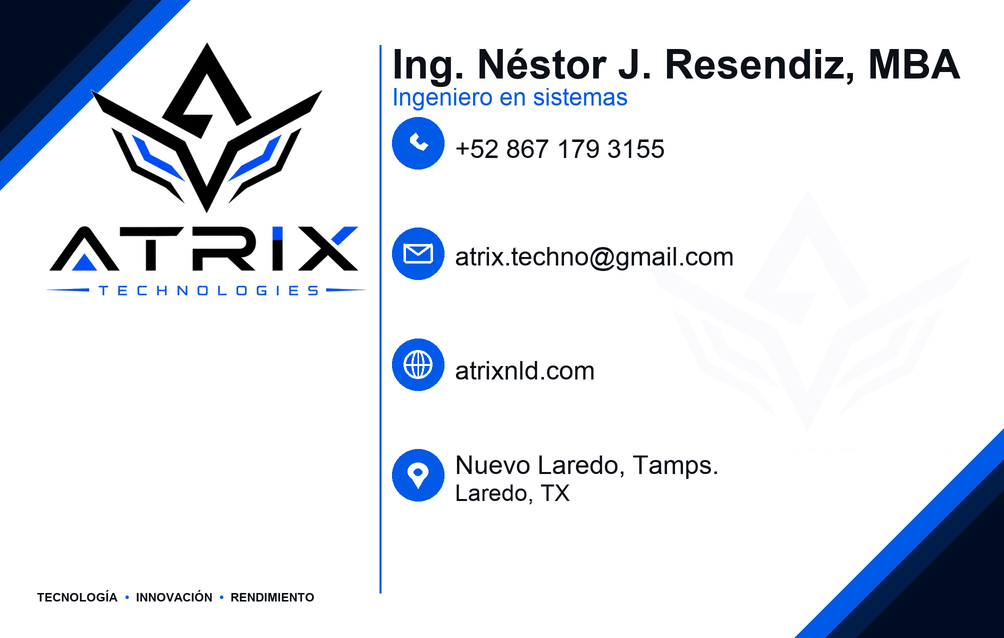
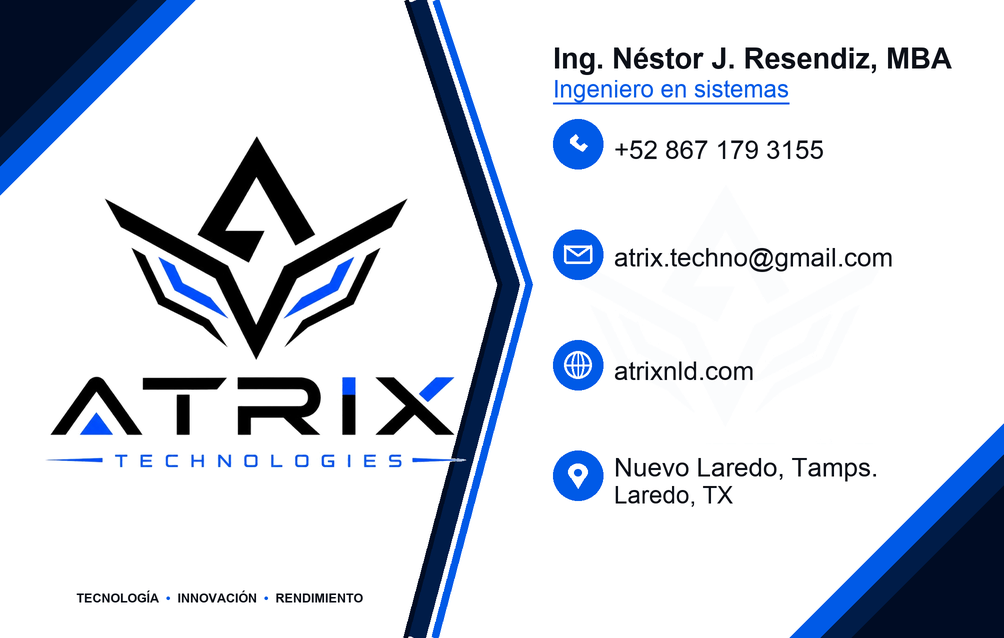
Match PVC cards to reference chevron layout at 600 DPI.
Front now uses the navy/blue right-pointing chevron divider with larger contact type; back keeps the six service columns and footer bar for print-ready 8.5×5.4 cm cards.

diff --git a/scripts/render_business_cards.py b/scripts/render_business_cards.py
@@ -16,8 +16,8 @@ SRC_LOGO = ROOT / "assets" / "source-cards" / "atrix-technologies-logo.png"
 DPI = 600
 W = round(8.5 / 2.54 * DPI)  # 2008
 H = round(5.4 / 2.54 * DPI)  # 1276
-# ~2.8 mm safe margin from PVC trim (slightly tighter so content can grow)
-SAFE = round(2.8 / 25.4 * DPI)  # ~66 px
+# ~2.7 mm safe margin from PVC trim
+SAFE = round(2.7 / 25.4 * DPI)  # ~64 px
 
 BLUE = (0, 90, 231)  # #005AE7
 NAVY = (0, 28, 72)  # #001C48
@@ -60,6 +60,41 @@ def paint_corner(draw: ImageDraw.ImageDraw, corner: str, size: int = 310, band: 
             draw.polygon([(0, H), (extent, H), (0, H - extent)], fill=color)
         elif corner == "tr":
             draw.polygon([(W, 0), (W - extent, 0), (W, extent)], fill=color)
+
+
+def chevron_x_at(y: float) -> float:
+    """Right-pointing chevron centerline from reference (normalized → px)."""
+    # Tip slightly above mid: ~52.7% W at ~44.6% H
+    tip_y = 0.446 * H
+    tip_x = 0.527 * W
+    top_x = 0.434 * W
+    bot_x = 0.433 * W
+    if y <= tip_y:
+        t = y / tip_y if tip_y else 0.0
+        return top_x + (tip_x - top_x) * t
+    t = (y - tip_y) / (H - tip_y) if H != tip_y else 1.0
+    return tip_x + (bot_x - tip_x) * t
+
+
+def paint_front_chevron(draw: ImageDraw.ImageDraw) -> None:
+    """Navy outer + blue inner right-pointing chevron divider (reference match)."""
+    # Draw as thick polylines so the tip stays sharp (no polygon self-fill artifacts)
+    navy_w = 44
+    blue_w = 15
+    step = 2
+    ys = list(range(0, H + 1, step))
+    if ys[-1] != H:
+        ys.append(H)
+
+    # Centerline of blue (rightmost edge of divider stack)
+    blue_line = [(int(round(chevron_x_at(y))), y) for y in ys]
+    # Navy sits left of blue with a tiny white gap
+    navy_line = [(int(round(chevron_x_at(y) - blue_w - 4 - navy_w // 2)), y) for y in ys]
+    draw.line(navy_line, fill=NAVY, width=navy_w, joint="curve")
+    # Midnight accent along outer (left) edge of navy
+    midnight_line = [(p[0] - navy_w // 2 + 4, p[1]) for p in navy_line]
+    draw.line(midnight_line, fill=MIDNIGHT, width=10, joint="curve")
+    draw.line(blue_line, fill=BLUE, width=blue_w, joint="curve")
 
 
 def load_stacked_logo(max_w: int, max_h: int) -> Image.Image:
@@ -291,35 +326,44 @@ def wrap_center(
     return yy
 
 
+def left_panel_right_bound(y: int) -> int:
+    """Usable right edge of left branding panel (inside chevron navy)."""
+    return int(chevron_x_at(y) - 78)
+
+
 def render_front() -> Image.Image:
     img = Image.new("RGB", (W, H), WHITE)
     draw = ImageDraw.Draw(img)
 
-    wm = load_mark_watermark(860, opacity=15)
-    img.paste(wm, (W - wm.width - SAFE, (H - wm.height) // 2), wm)
+    # Watermark on right panel first
+    tip_x = int(0.527 * W)
+    wm = load_mark_watermark(880, opacity=13)
+    img.paste(wm, (tip_x + 60, (H - wm.height) // 2 - 10), wm)
 
-    paint_corner(draw, "tl", size=380, band=58)
-    paint_corner(draw, "br", size=420, band=62)
+    paint_corner(draw, "tl", size=390, band=58)
+    paint_corner(draw, "br", size=430, band=62)
+    paint_front_chevron(draw)
 
-    # Motto first so logo can sit above it
+    # Motto along bottom of left panel
     parts = ["TECNOLOGÍA", "INNOVACIÓN", "RENDIMIENTO"]
-    motto_f = font(FONT_BOLD, 24)
+    motto_f = font(FONT_BOLD, 25)
     motto_h = text_size(draw, parts[0], motto_f)[1]
     my = H - SAFE - motto_h - 6
 
-    # Vertical divider — ~38% logo / 62% contact
-    div_x = 760
-    draw.line([(div_x, SAFE + 24), (div_x, H - SAFE - 24)], fill=BLUE, width=4)
-
-    # Left stacked logo — top-aligned, as wide as the left column allows
-    logo_max_w = div_x - SAFE - 24
-    logo_max_h = my - SAFE - 24
+    # Left stacked logo — fill the chevron pocket without colliding with divider
+    pocket_right = left_panel_right_bound(int(0.40 * H))
+    logo_max_w = pocket_right - SAFE - 20
+    logo_max_h = my - SAFE - 36
     logo = load_stacked_logo(logo_max_w, logo_max_h)
-    logo_x = SAFE + (div_x - SAFE - logo.width) // 2
-    logo_y = SAFE + 10
+    logo_x = SAFE + max(0, (pocket_right - SAFE - logo.width) // 2)
+    logo_y = SAFE + max(0, (my - SAFE - 28 - logo.height) // 2)
     img.paste(logo, (logo_x, logo_y), logo)
 
-    mx = SAFE + 8
+    # Motto centered under logo within left pocket
+    motto_w = sum(text_size(draw, p, motto_f)[0] for p in parts)
+    motto_w += 2 * text_size(draw, "  •  ", motto_f)[0]
+    pocket_r_bot = left_panel_right_bound(my)
+    mx = SAFE + max(0, (min(pocket_r_bot, pocket_right) - SAFE - motto_w) // 2)
     x = mx
     for i, part in enumerate(parts):
         draw.text((x, my), part, fill=BLACK, font=motto_f)
@@ -330,19 +374,27 @@ def render_front() -> Image.Image:
             bw, _ = text_size(draw, "  •  ", motto_f)
             x += bw
 
-    # Right contact block — print-readable (~10–13 pt name, ~7–8 pt contact @ 600 DPI)
-    rx = div_x + 24
-    name_f = font(FONT_BOLD, 82)
+    # Right contact block — large print-readable type
+    rx = tip_x + 48
+    name_f = font(FONT_BOLD, 76)
     title_f = font(FONT_REG, 48)
     info_f = font(FONT_REG, 52)
-    info_sm = font(FONT_REG, 46)
+    info_sm = font(FONT_REG, 48)
 
-    name_y = SAFE + 16
-    draw.text((rx, name_y), "Ing. Néstor J. Resendiz, MBA", fill=BLACK, font=name_f)
-    _, name_h = text_size(draw, "Ing. Néstor J. Resendiz, MBA", name_f)
-    title_y = name_y + name_h + 8
-    draw.text((rx, title_y), "Ingeniero en sistemas", fill=BLUE, font=title_f)
-    _, title_h = text_size(draw, "Ingeniero en sistemas", title_f)
+    name = "Ing. Néstor J. Resendiz, MBA"
+    while text_size(draw, name, name_f)[0] > W - SAFE - 12 - rx and name_f.size > 56:
+        name_f = font(FONT_BOLD, name_f.size - 2)
+
+    name_y = SAFE + 20
+    draw.text((rx, name_y), name, fill=BLACK, font=name_f)
+    _, name_h = text_size(draw, name, name_f)
+
+    title = "Ingeniero en sistemas"
+    title_y = name_y + name_h + 12
+    draw.text((rx, title_y), title, fill=BLUE, font=title_f)
+    tw, title_h = text_size(draw, title, title_f)
+    ul_y = title_y + title_h + 10
+    draw.line([(rx, ul_y), (rx + max(tw, 280), ul_y)], fill=BLUE, width=4)
 
     rows = [
         ("phone", "+52 867 179 3155", None),
@@ -350,23 +402,24 @@ def render_front() -> Image.Image:
         ("web", "atrixnld.com", None),
         ("pin", "Nuevo Laredo, Tamps.", "Laredo, TX"),
     ]
-    icon_r = 52
-    contacts_top = title_y + title_h + 22
-    contacts_bottom = H - SAFE - 12
-    # Weighted slots: single-line rows vs two-line location row
+    icon_r = 50
+    contacts_top = ul_y + 30
+    contacts_bottom = H - SAFE - 14
     weights = [1.0, 1.0, 1.0, 1.35]
     total_w = sum(weights)
     usable_h = contacts_bottom - contacts_top
     y = contacts_top
     for i, (kind, line1, line2) in enumerate(rows):
         slot = usable_h * (weights[i] / total_w)
-        circle_icon(draw, rx + icon_r, int(y + icon_r), icon_r, kind)
+        cy = int(y + icon_r + 2)
+        circle_icon(draw, rx + icon_r, cy, icon_r, kind)
         tx = rx + icon_r * 2 + 22
         if line2:
-            draw.text((tx, int(y + 2)), line1, fill=BLACK, font=info_f)
-            draw.text((tx, int(y + 62)), line2, fill=BLACK, font=info_sm)
+            draw.text((tx, int(y + 6)), line1, fill=BLACK, font=info_f)
+            draw.text((tx, int(y + 64)), line2, fill=BLACK, font=info_sm)
         else:
-            draw.text((tx, int(y + icon_r - text_size(draw, line1, info_f)[1] // 2)), line1, fill=BLACK, font=info_f)
+            th = text_size(draw, line1, info_f)[1]
+            draw.text((tx, cy - th // 2), line1, fill=BLACK, font=info_f)
         y += slot
 
     return img
@@ -376,25 +429,24 @@ def render_back() -> Image.Image:
     img = Image.new("RGB", (W, H), WHITE)
     draw = ImageDraw.Draw(img)
 
-    wm = load_mark_watermark(780, opacity=11)
-    img.paste(wm, (W - wm.width - 20, 6), wm)
+    wm = load_mark_watermark(820, opacity=12)
+    img.paste(wm, (W - wm.width - 10, 20), wm)
 
-    paint_corner(draw, "tl", size=300, band=50)
-    paint_corner(draw, "bl", size=280, band=48)
-    paint_corner(draw, "br", size=320, band=52)
+    # Match reference: TL + BR corners (no BL)
+    paint_corner(draw, "tl", size=320, band=52)
+    paint_corner(draw, "br", size=340, band=54)
 
-    # Title — ~11–12 pt @ 600 DPI
-    title_f = font(FONT_BLACK, 72)
-    sub_f = font(FONT_BOLD, 36)
+    title_f = font(FONT_BLACK, 70)
+    sub_f = font(FONT_BOLD, 38)
     t1 = "SOLUCIONES TECNOLÓGICAS"
     t2 = "PARA HOGARES Y EMPRESAS"
     tw, th1 = text_size(draw, t1, title_f)
-    draw.text(((W - tw) // 2, SAFE + 4), t1, fill=NAVY, font=title_f)
+    draw.text(((W - tw) // 2, SAFE + 2), t1, fill=NAVY, font=title_f)
     tw2, th2 = text_size(draw, t2, sub_f)
-    sub_y = SAFE + 4 + th1 + 10
+    sub_y = SAFE + 2 + th1 + 8
     draw.text(((W - tw2) // 2, sub_y), t2, fill=MUTED, font=sub_f)
-    rule_y = sub_y + th2 + 14
-    draw.line([(W // 2 - 72, rule_y), (W // 2 + 72, rule_y)], fill=BLUE, width=4)
+    rule_y = sub_y + th2 + 12
+    draw.line([(W // 2 - 80, rule_y), (W // 2 + 80, rule_y)], fill=BLUE, width=4)
 
     services = [
         ("monitor", C_SOPORTE, "SOPORTE TÉCNICO", "Computadoras, Laptops Mantenimiento y Reparación"),
@@ -405,36 +457,35 @@ def render_back() -> Image.Image:
         ("printer", C_PRINT, "IMPRESORAS Y PERIFÉRICOS", "Instalación, Configuración y Soporte"),
     ]
 
-    # Footer — taller, raised so services sit denser above it
-    bar_m = SAFE + 10
-    bar_y0, bar_y1 = H - SAFE - 210, H - SAFE - 4
-    col_bottom = bar_y0 - 12
+    bar_m = SAFE + 8
+    bar_y0, bar_y1 = H - SAFE - 200, H - SAFE - 2
+    col_bottom = bar_y0 - 10
 
-    margin_x = SAFE - 6
+    margin_x = SAFE - 4
     usable = W - margin_x * 2
     col_w = usable // 6
-    title_font = font(FONT_BOLD, 30)
-    desc_font = font(FONT_REG, 24)
-    icon_s = 78
+    title_font = font(FONT_BOLD, 28)
+    desc_font = font(FONT_REG, 23)
+    icon_s = 72
 
-    # Dense service band between header and raised footer
-    band_top = rule_y + 8
+    band_top = rule_y + 10
     band_h = col_bottom - band_top
-    icon_y = band_top + int(band_h * 0.26)
-    text_top = band_top + int(band_h * 0.50)
+    icon_y = band_top + int(band_h * 0.20)
+    text_top = band_top + int(band_h * 0.42)
 
     for i, (kind, color, title, desc) in enumerate(services):
         cx = margin_x + col_w * i + col_w // 2
         service_icon(draw, cx, icon_y, kind, color, s=icon_s)
         if i > 0:
             sx = margin_x + col_w * i
-            draw.line([(sx, band_top + 4), (sx, col_bottom)], fill=LIGHT_GRAY, width=2)
+            draw.line([(sx, band_top + 2), (sx, col_bottom - 4)], fill=LIGHT_GRAY, width=2)
 
-        ty = wrap_center(draw, title, cx, text_top, title_font, color, col_w - 4, line_gap=3)
-        dy = ty + 10
-        draw.line([(cx - col_w * 0.34, dy), (cx + col_w * 0.34, dy)], fill=color, width=3)
-        draw.ellipse((cx - 7, dy - 7, cx + 7, dy + 7), fill=color)
-        wrap_center(draw, desc, cx, dy + 10, desc_font, GRAY, col_w - 4, line_gap=4)
+        # Title → description → accent line (reference order)
+        ty = wrap_center(draw, title, cx, text_top, title_font, color, col_w - 8, line_gap=2)
+        dy = wrap_center(draw, desc, cx, ty + 8, desc_font, GRAY, col_w - 8, line_gap=3)
+        line_y = min(dy + 14, col_bottom - 18)
+        draw.line([(cx - col_w * 0.32, line_y), (cx + col_w * 0.32, line_y)], fill=color, width=3)
+        draw.ellipse((cx - 6, line_y - 6, cx + 6, line_y + 6), fill=color)
 
     draw.rounded_rectangle((bar_m, bar_y0, W - bar_m, bar_y1), radius=14, outline=BLUE, width=4)
 
@@ -444,15 +495,15 @@ def render_back() -> Image.Image:
         ("web", "atrixnld.com"),
     ]
     seg_w = (W - 2 * bar_m) // 3
-    foot_f = font(FONT_BOLD, 26)
-    url_f = font(FONT_BOLD, 34)
+    foot_f = font(FONT_BOLD, 28)
+    url_f = font(FONT_BOLD, 36)
     for i, (kind, label) in enumerate(footer_items):
         cx = bar_m + seg_w * i + seg_w // 2
         if i > 0:
             sx = bar_m + seg_w * i
-            draw.line([(sx, bar_y0 + 22), (sx, bar_y1 - 22)], fill=LIGHT_GRAY, width=2)
+            draw.line([(sx, bar_y0 + 20), (sx, bar_y1 - 20)], fill=LIGHT_GRAY, width=2)
         mid_y = (bar_y0 + bar_y1) // 2
-        icon_r = 34
+        icon_r = 36
         if label == "atrixnld.com":
             block_w = icon_r * 2 + 18 + text_size(draw, label, url_f)[0]
             icon_cx = cx - block_w // 2 + icon_r
@@ -482,13 +533,11 @@ def main() -> None:
     back = render_back()
     front_path = OUT_DIR / "tarjeta-atrix-frente.png"
     back_path = OUT_DIR / "tarjeta-atrix-reverso.png"
-    # Primary: sharp 600 DPI PNGs for PVC print
     front.save(front_path, "PNG", optimize=True, dpi=(DPI, DPI))
     back.save(back_path, "PNG", optimize=True, dpi=(DPI, DPI))
     print(f"Wrote {front_path} {front.size} @ {DPI} DPI ({8.5}×{5.4} cm)")
     print(f"Wrote {back_path} {back.size} @ {DPI} DPI ({8.5}×{5.4} cm)")
 
-    # Optional 300 DPI exports alongside (not used by site download links)
     dpi300_w = round(8.5 / 2.54 * 300)
     dpi300_h = round(5.4 / 2.54 * 300)
     for src, name in ((front, "tarjeta-atrix-frente-300dpi.png"), (back, "tarjeta-atrix-reverso-300dpi.png")):

diff --git a/assets/source-cards/PREVIEW_COMPARISON.md b/assets/source-cards/PREVIEW_COMPARISON.md
@@ -1,0 +1,7 @@
+# PVC card preview comparison
+
+- Print size: **8.5 × 5.4 cm** → **2008 × 1276 px @ 600 DPI**
+- Outputs: `public/brand/tarjeta-atrix-frente.png`, `public/brand/tarjeta-atrix-reverso.png`
+- Front matches reference: TL/BR corner shards, right-pointing navy+blue chevron, stacked ATRIX logo left, contact right with blue title underline + circular icons, faint mark watermark
+- Back matches reference: header, 6 colored service columns (icon → title → desc → accent line), footer bar, TL/BR corners, watermark
+- Larger type than sparse drafts for PVC readability; ~2.7 mm safe trim margin
